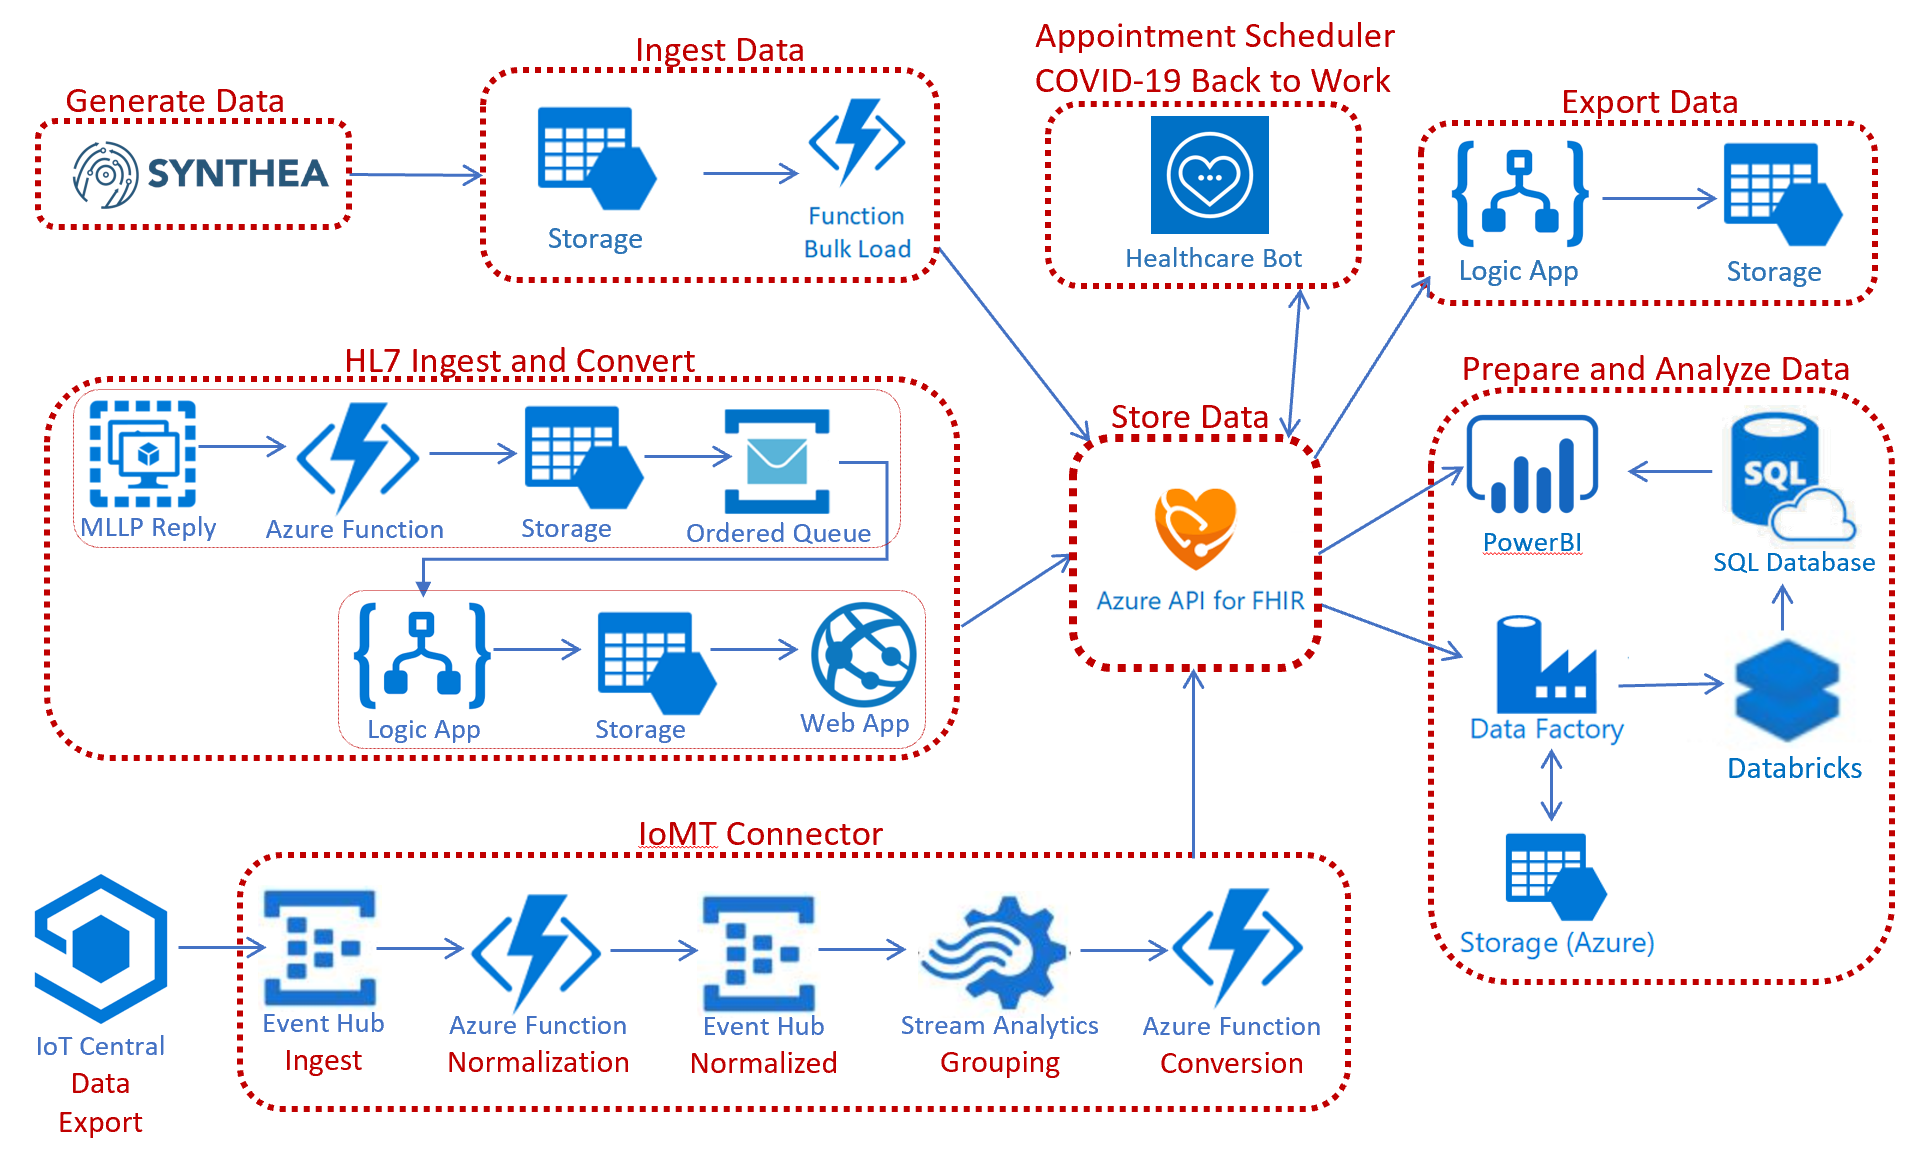
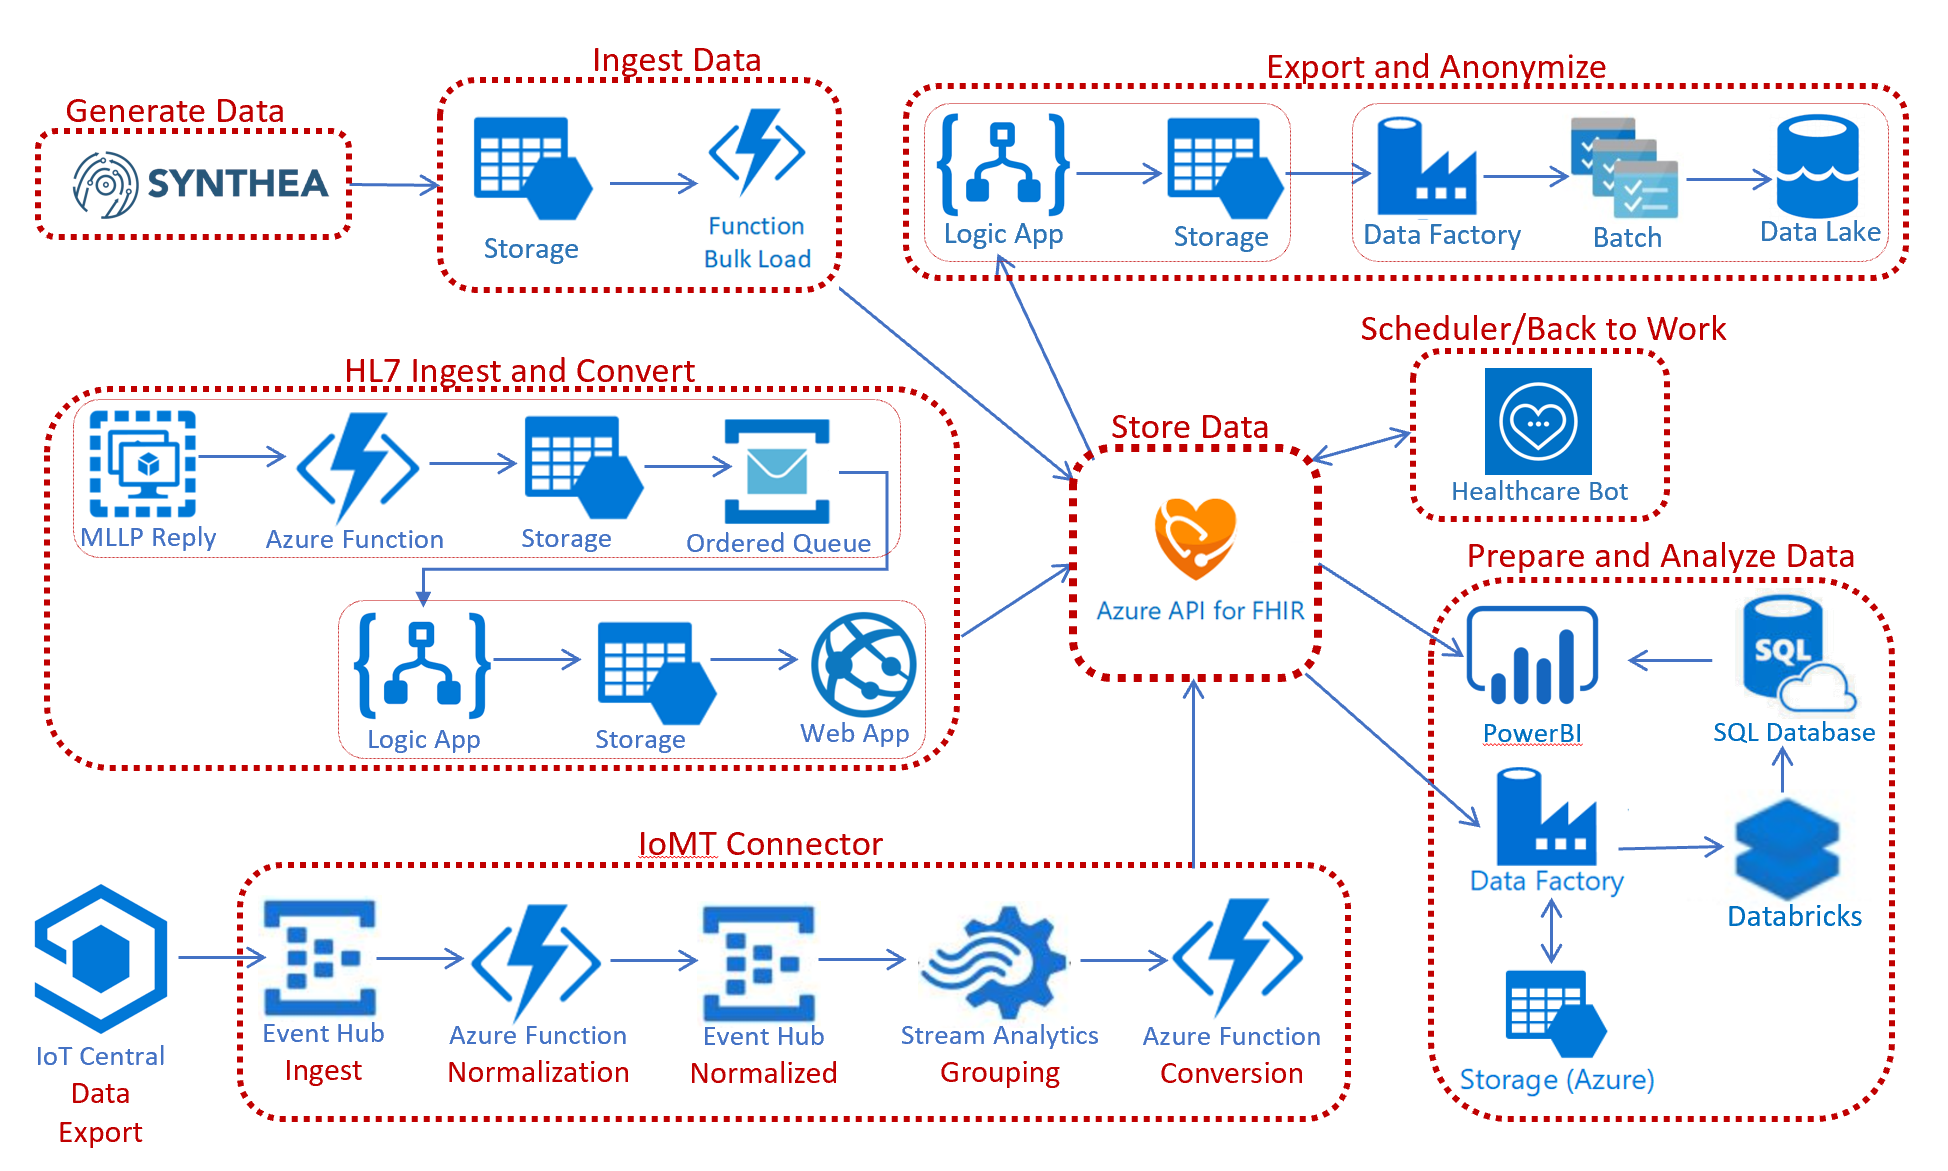
Changes for Anonymization

Changed region(s): [[0.0, 0.0, 0.9969, 0.9914], [0.0, 0.4647, 0.0312, 0.6196], [0.0312, 0.6196, 0.0623, 0.6506]]

diff --git a/README.md b/README.md
@@ -8,6 +8,7 @@ The high level solution architecture includes:
 #### * Ingest Data: Upload the generated data into Azure Blob Storage. Ingest into Azure API for FHIR using an Azure Function.
 #### * Store Data: Store FHIR data in Azure API for FHIR service.
 #### * Export Data: Export FHIR data using Logic Apps into Blob Storage.
+#### * Export and Anonymize Data: Export FHIR data using Logic Apps into Blob Storage. Anonymize and store into Azure Data Lake Storage.
 #### * HL7 Ingest and Convert: Ingest HL7v2 messages and convert to FHIR.
 #### * Prepare and Analyze Data: Prepare data using Azure Data Factory and Azure Databricks. Store in Azure SQL DB. Analyze using PowerBI.
 #### * IoMT Connector: Ingest data from IoMT (internet of medical things) devices and persist the data in a FHIR® server.
@@ -25,7 +26,8 @@ Azure Subscription is required to complete this starter kit. Azure Subscription 
 * [Chapter 2 - Azure API for FHIR: Create and configure](./Chapter2-AzureAPIforFHIR/ReadMe.md)
 * [Chapter 3 - Azure Blob Storage and Azure Function: Bulk Ingest data into Azure API for FHIR](./Chapter3-AzureBlobStorageandAzureFunction/ReadMe.md)
 * [Chapter 3.1 - Export FHIR Data: Export FHIR data to Blob Storage](./Chapter3.1-ExportData/ReadMe.md)
-* [Chapter 3.2 - HL7 Ingest and Convert: Ingest HL7v2 messages and convert to FHIR](./Chapter3.2-HL7IngestandConvert/ReadMe.md)
+* [Chapter 3.2 - Export and Anonymize: Export and Anonymize FHIR data to Azure Data Lake](./Chapter3.2-ExportandAnonymizeData/ReadMe.md)
+* [Chapter 3.3 - HL7 Ingest and Convert: Ingest HL7v2 messages and convert to FHIR](./Chapter3.2-HL7IngestandConvert/ReadMe.md)
 * [Chapter 4 - Azure Data Factory: Convert bundles to delimited json (ndjson)](./Chapter4-AzureDataFactory/ReadMe.md)
 * [Chapter 5 - Azure Databricks: Parse json and load into Azure SQL DB](./Chapter5-AzureDatabricks/ReadMe.md)
 * [Chapter 6 - PowerBI: Analyze the FHIR bundles](./Chapter6-PowerBI/ReadMe.md)

diff --git a/Chapter3.2-ExportandAnonymizeData/ReadMe.md b/Chapter3.2-ExportandAnonymizeData/ReadMe.md
@@ -1,0 +1,17 @@
+# Chapter 3.2 - Export and Anonymize: Export and Anonymize FHIR data to Azure Data Lake
+
+#### This chapter refers to [FHIRExportwithAnonymization](https://github.com/microsoft/health-architectures/tree/master/FHIR/FHIRExportwithAnonymization) focusing on exporting data out of Azure API for FHIR. Click on the link for more details.
+
+The FHIR Export with Anonymization is a template for bulk exporting data from Azure API for FHIR, deidentifying the data based on a template and storing in Azure Data Lake.
+
+The template has two main components:
+* Bulk Export: Logic app bulk exports FHIR data into Blob Storage
+* Anonymization: Logic app runs Data Factory pipeline which calls Azure Batch for deidentifying the data and store into Azure Data Lake
+
+## Prerequisites
+* Go to [FHIRExportwithAnonymization](https://github.com/microsoft/health-architectures/tree/master/FHIR/FHIRExportwithAnonymization) to implement the template.
+
+
+*** 
+
+
